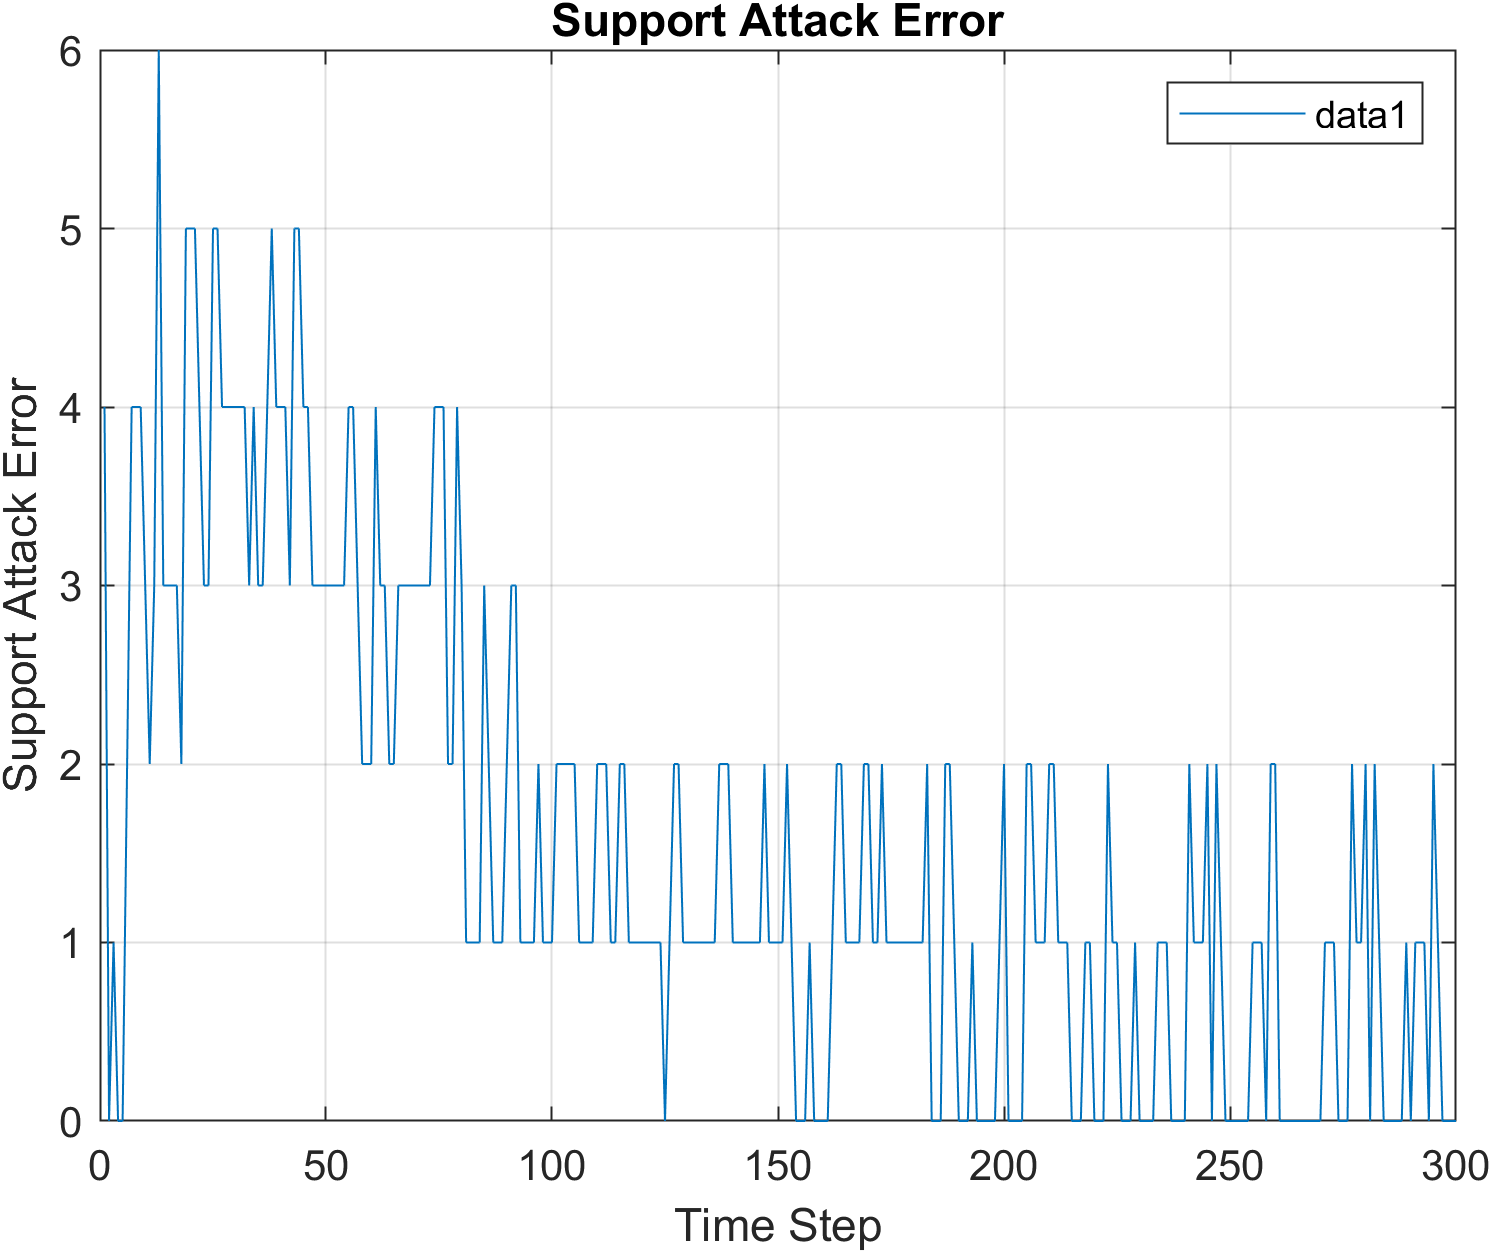
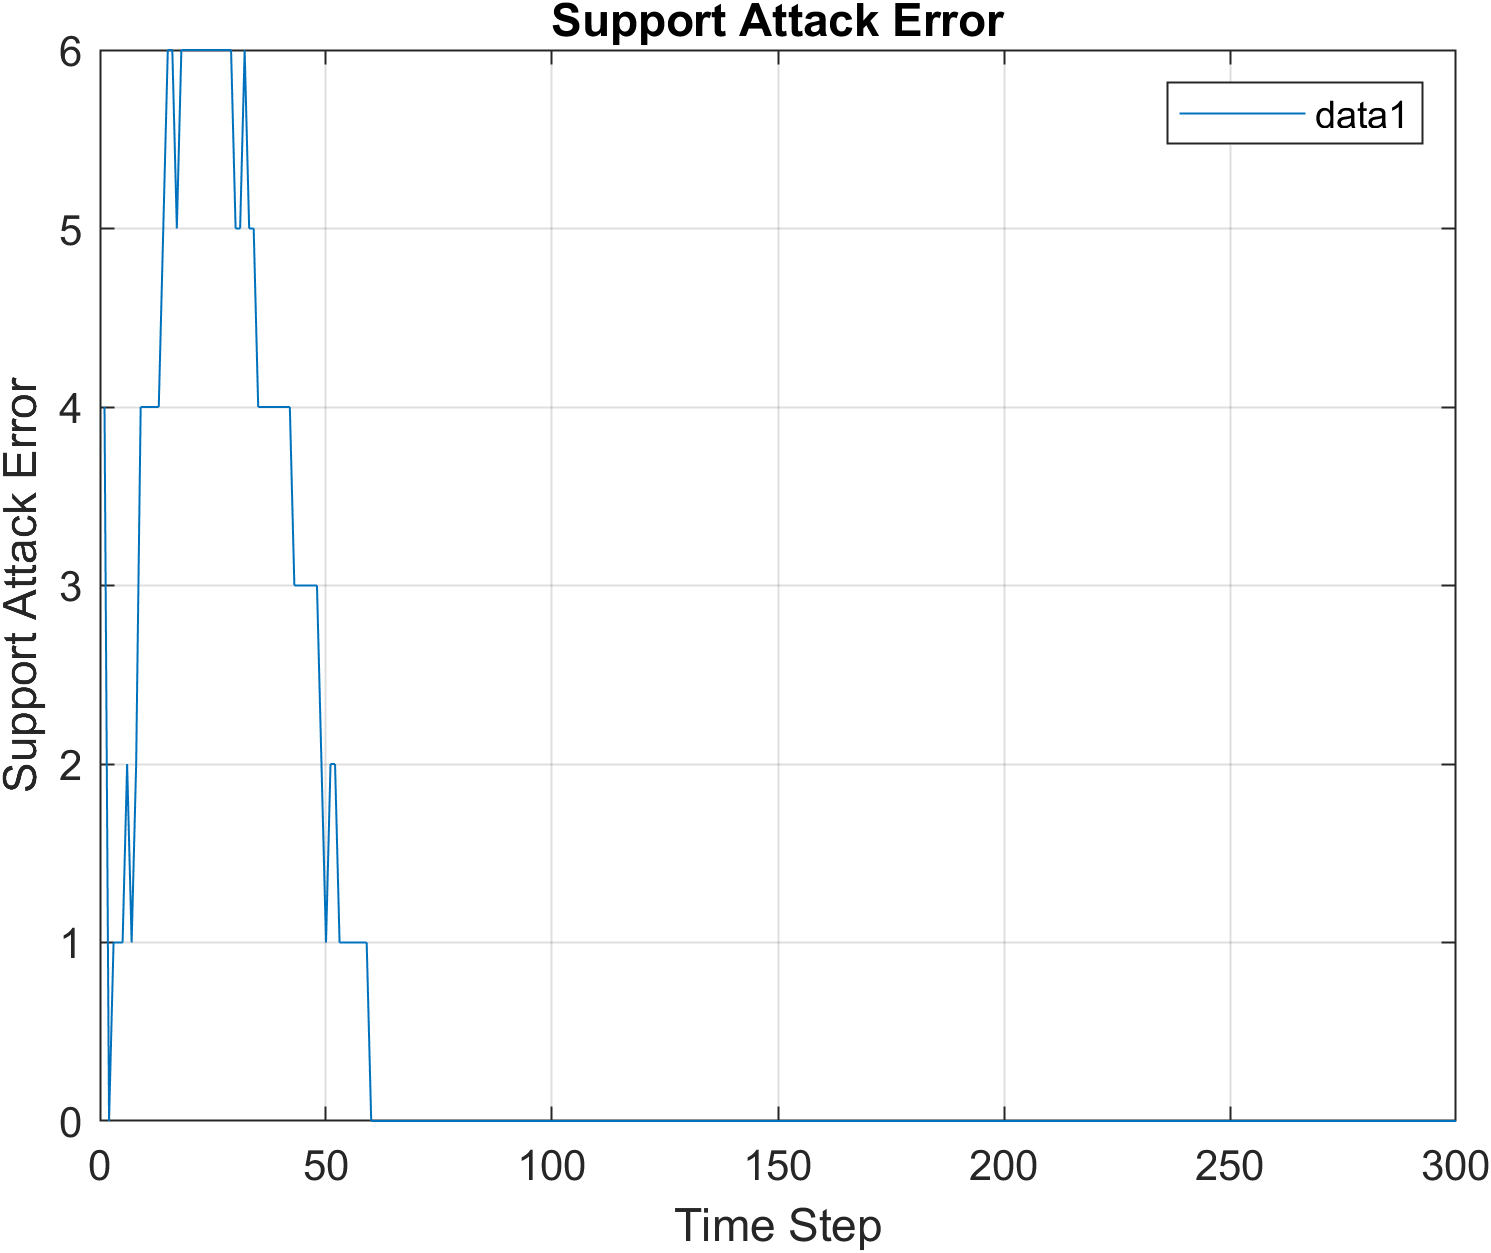
fix x,a values update

Changed region(s): [[0.0617, 0.0311, 0.7096, 0.9026], [0.7096, 0.6225, 0.8638, 0.9026], [0.8947, 0.6225, 0.9873, 0.9026]]

diff --git a/task4/SSO.m b/task4/SSO.m
@@ -1,18 +1,26 @@
-function [state_estimation_error, attack_error] = SSO(x0, G, A, a_true, lambda, nu, q, n,T,y, epsilon)
-    xa_est = zeros(n+q,1);
+function [state_estimation_error, attack_error] = SSO(x0, G, A, a_true, lambda, nu, q, n, T, y, epsilon)
     x_true = x0; 
-    state_estimation_error = []; 
-    attack_error = []; 
-    x_est = xa_est(1:n);
-    a_est = xa_est(n+1:end);
+    x_est = zeros(n, 1);
+    a_est = zeros(q, 1);
+    xa_est = [x_est; a_est];
+    
+    %Perfomance Metrics
+    state_estimation_error = zeros(1, T); 
+    attack_error = zeros(1, T);
     state_estimation_error(1) = support_error(x_true, x_est, epsilon);
     attack_error(1) = support_error(a_true, a_est, epsilon); 
 
     for k=2:T
-        xa_est = soft_thresholding(xa_est - nu * G' * (G * xa_est - y(:,k)), nu * lambda);
+        y_k = y(:,k);
+        xa_est = soft_thresholding(xa_est - nu * G' * (G * xa_est - y_k), nu * lambda);
+
         x_est = xa_est(1:n);
         a_est = xa_est(n+1:end);
-        x_true = A * x_true; 
+        
+        x_true = A * x_true;
+        next_x = A * x_est;
+
+        xa_est = [next_x; a_est];
         state_estimation_error(k) = support_error(x_true, x_est, epsilon); 
         attack_error(k) = support_error(a_true, a_est, epsilon); 
     end

diff --git a/task4/support_error.m b/task4/support_error.m
@@ -1,6 +1,3 @@
 function error = support_error(real, est, epsilon)
-    error=0;
-    for i=1:size(real,1)
-        error = error + abs((abs(real(i)) >= epsilon) - (abs(est(i)) >= epsilon));
-    end 
+    error = sum(abs((abs(real) >= epsilon) - (abs(est) >= epsilon)));
 end 

diff --git a/task4/Task4.m b/task4/Task4.m
@@ -11,7 +11,6 @@ G = normalize([D eye(q)]);
 nu = norm(G,2)^(-2);
 epsilon = 1; 
 
-%% SSO
 [support_state_error, support_attack_error] = SSO(xtrue0, G, A, atrue, lambda, nu, q, n, T, y, epsilon);
 
 time_step = 1:T;
